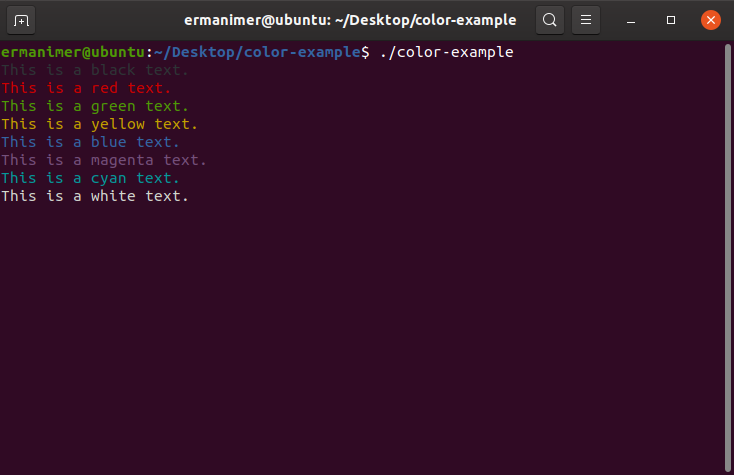
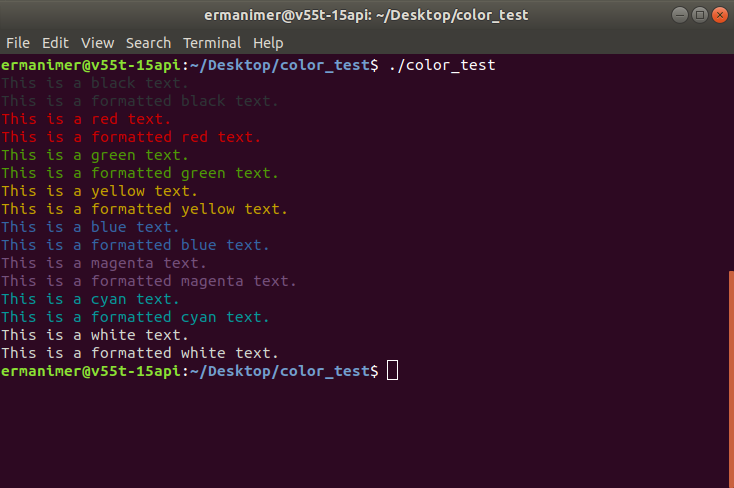
Update README.md

Changed region(s): [[0.0, 0.0, 1.0, 1.0]]

diff --git a/README.md b/README.md
@@ -36,28 +36,52 @@ import (
 
 func main() {
 	//print black text
-	fmt.Println(color.Black("This is a black text."))
+	fmt.Println(color.Black("this is a black text"))
+
+	//print formatted black text
+	fmt.Println(color.Blackf("this is a %v black text", "formatted"))
 
 	//print red text
-	fmt.Println(color.Red("This is a red text."))
+	fmt.Println(color.Red("this is a red text"))
+
+	//print formatted red text
+	fmt.Println(color.Redf("this is a %v red text", "formatted"))
 
 	//print green text
-	fmt.Println(color.Green("This is a green text."))
+	fmt.Println(color.Green("this is a green text"))
+
+	//print formatted green text
+	fmt.Println(color.Greenf("this is a %v green text", "formatted"))
 
 	//print yellow text
-	fmt.Println(color.Yellow("This is a yellow text."))
+	fmt.Println(color.Yellow("this is a yellow text"))
+
+	//print formatted yellow text
+	fmt.Println(color.Yellowf("this is a %v yellow text", "formatted"))
 
 	//print blue text
-	fmt.Println(color.Blue("This is a blue text."))
+	fmt.Println(color.Blue("this is a blue text"))
+
+	//print formatted blue text
+	fmt.Println(color.Bluef("this is a %v blue text", "formatted"))
 
 	//print magenta text
-	fmt.Println(color.Magenta("This is a magenta text."))
+	fmt.Println(color.Magenta("this is a magenta text"))
+
+	//print formatted magenta text
+	fmt.Println(color.Magentaf("this is a %v magenta text", "formatted"))
 
 	//print cyan text
-	fmt.Println(color.Cyan("This is a cyan text."))
+	fmt.Println(color.Cyan("this is a cyan text"))
+
+	//print formatted cyan text
+	fmt.Println(color.Cyanf("this is a %v cyan text", "formatted"))
 
 	//print white text
-	fmt.Println(color.White("This is a white text."))
+	fmt.Println(color.White("this is a white text"))
+
+	//print formatted white text
+	fmt.Println(color.Whitef("this is a %v white text", "formatted"))
 }
 ```
 
